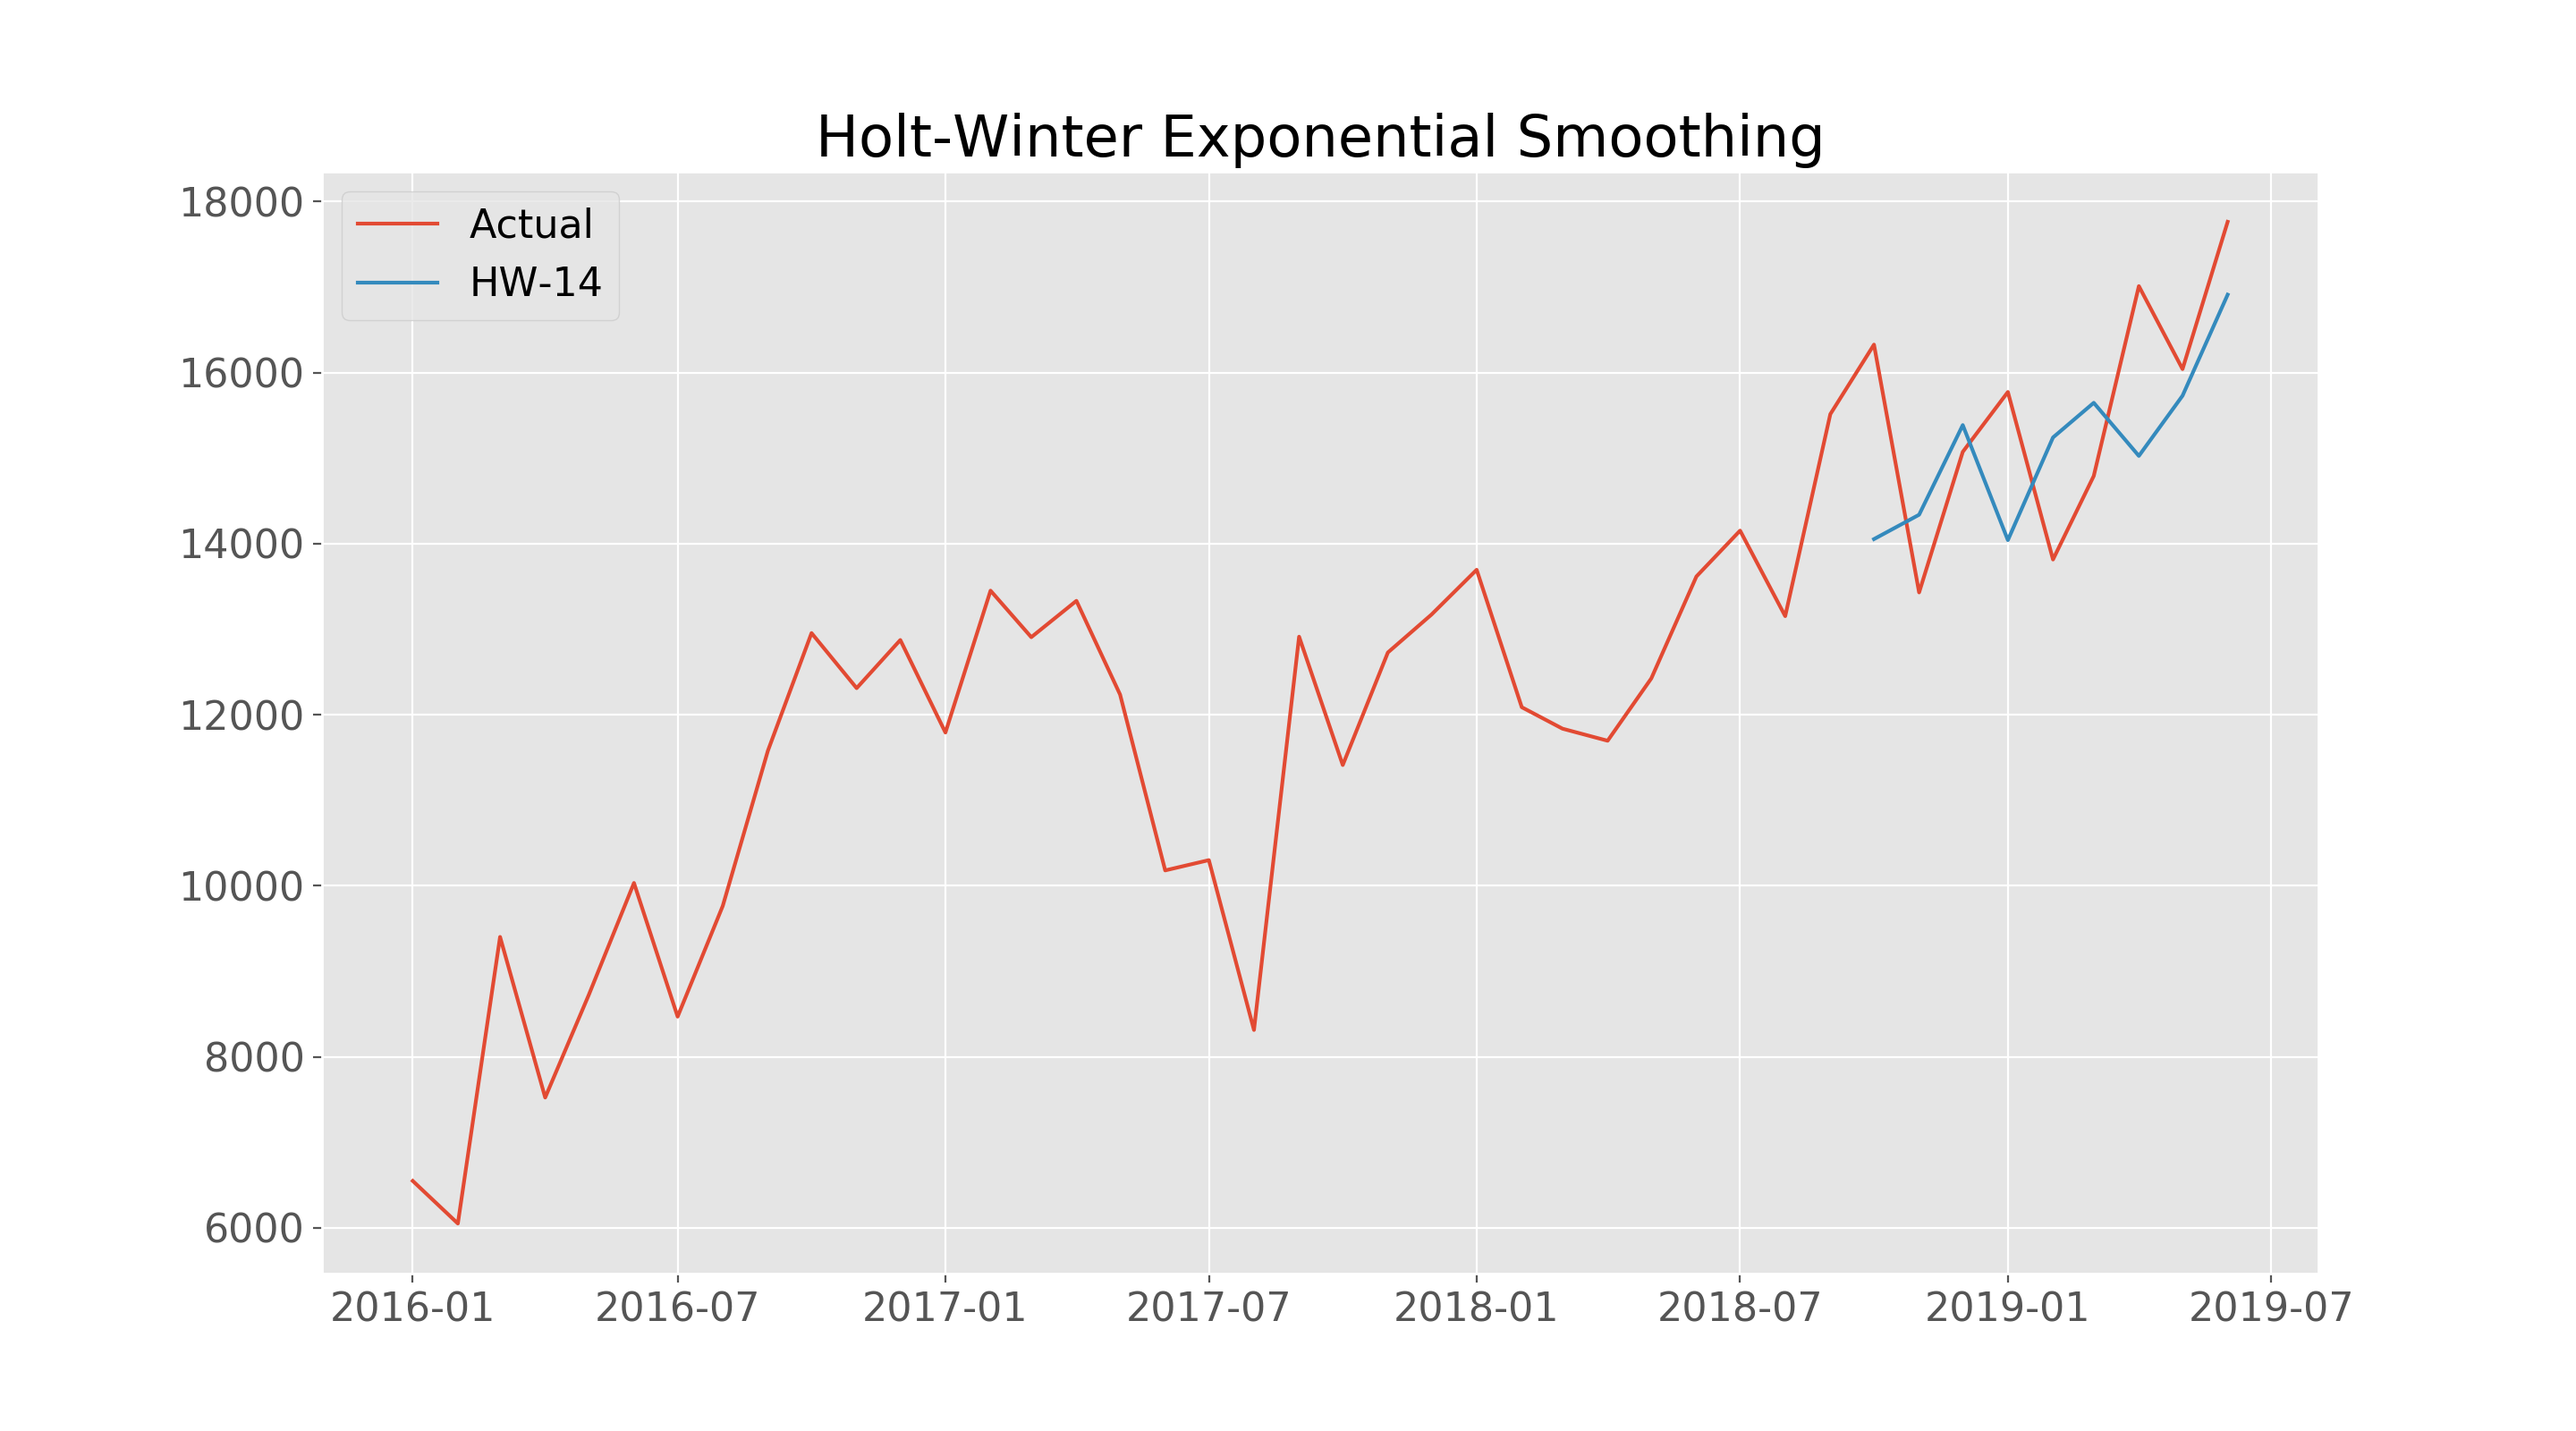
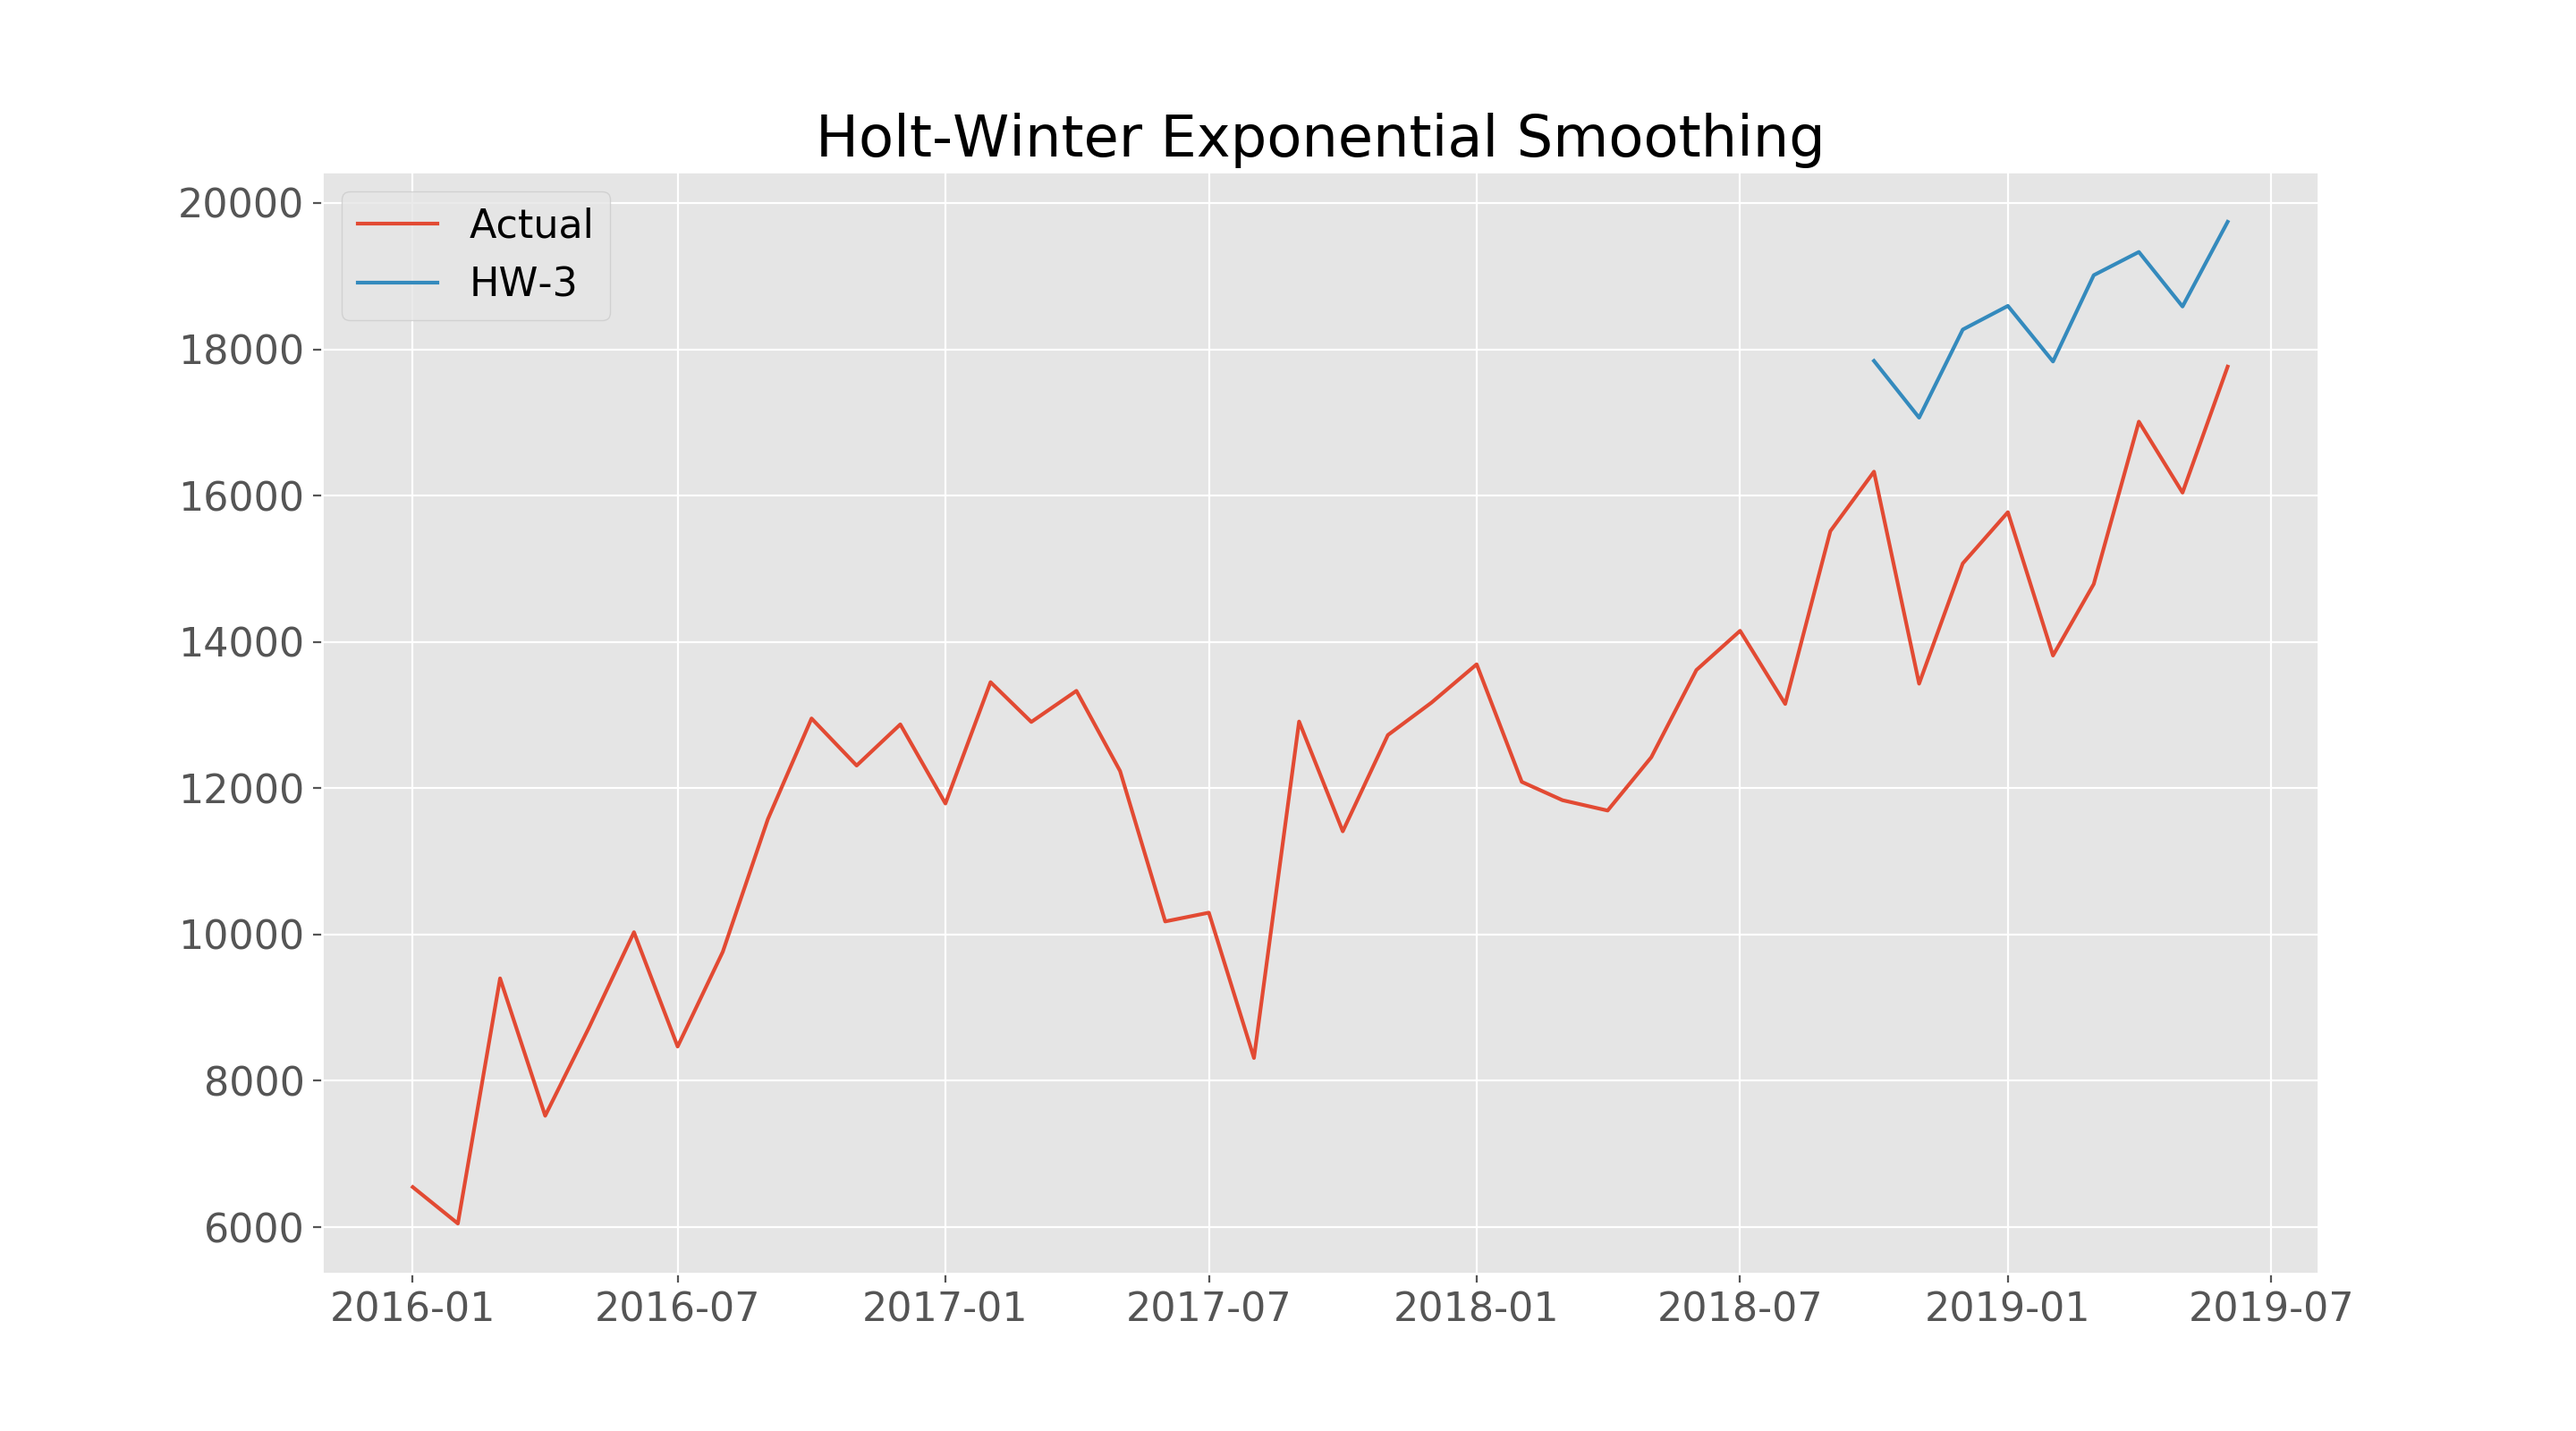
fixing hw

diff --git a/src/univariate.py b/src/univariate.py
@@ -194,8 +194,8 @@ if __name__ == "__main__":
 
     test = SARIMA(df_use, '2018-10-01', params, params_seasonal, test, 'SARIMA', True)
 
-    test = holt_winters(df_use, 14, test, 'HW-14', True)
+    test = holt_winters(df_use, 3, test, 'HW-3', True)
 
     test = fb_prophet(train, test, len(test), plot_flag = True)
 
-    metrics = cross_val(test, train, ['SARIMA', 'HW-14', 'fbProphet'], ['SARIMA', 'Holt-Winters 14', 'FB Prophet'])
+    metrics = cross_val(test, train, ['SARIMA', 'HW-3', 'fbProphet'], ['SARIMA', 'Holt-Winters 14', 'FB Prophet'])

diff --git a/README.md b/README.md
@@ -109,7 +109,7 @@ When examining just the overall trends aggregated by date, it seems like this mo
 [Back to Top](#Table-of-Contents)
 
 ### Holt-Winters:
-I wanted to try out the Holt-Winters forecasting also because this can apply three different smoothing functions to the model. This is another model that is used for forecasting seasonality, especially some sort of repeating period over time. Unfortunately this model did not perform well with my data, because the periodicity piece in my data didn't really exist and therefore couldn't predict a well.
+I wanted to try out the Holt-Winters forecasting also because this can apply three different smoothing functions to the model. This is another model that is used for forecasting seasonality, especially some sort of repeating period over time. Unfortunately this model did not perform well with my data, because the periodicity piece in my data didn't really exist and therefore couldn't predict a well. For this model also the hyperparameter that denoted the window, I had to keep it smaller because not all site-product data had the same 42 rows that the aggregated amount has, therefore it didn't predict as well.
 
 ![](images/holt-winters_after.png)
 
@@ -138,7 +138,7 @@ In this study I used three different metrics:
 | Forecast Model | RMSE | MAE  | MASE | 
 |--------------- | ---- | ---  | ---- |
 |SARIMA | 1313.57 | 1065.48 | 0.84|
-|Holt-Winters | 1359.33 | 1184.42 | 0.93 |
+|Holt-Winters | 3044.80 | 2916.85 | 2.30 |
 |FB Prophet | 2894.60 | 2524.21  | 1.99 |
 
 Based on this metrics table, across the board, the SARIMA performed the best for all the products and sites aggregated together. However, this is not the model of interest, but this is just an example of how the model would be chosen.
